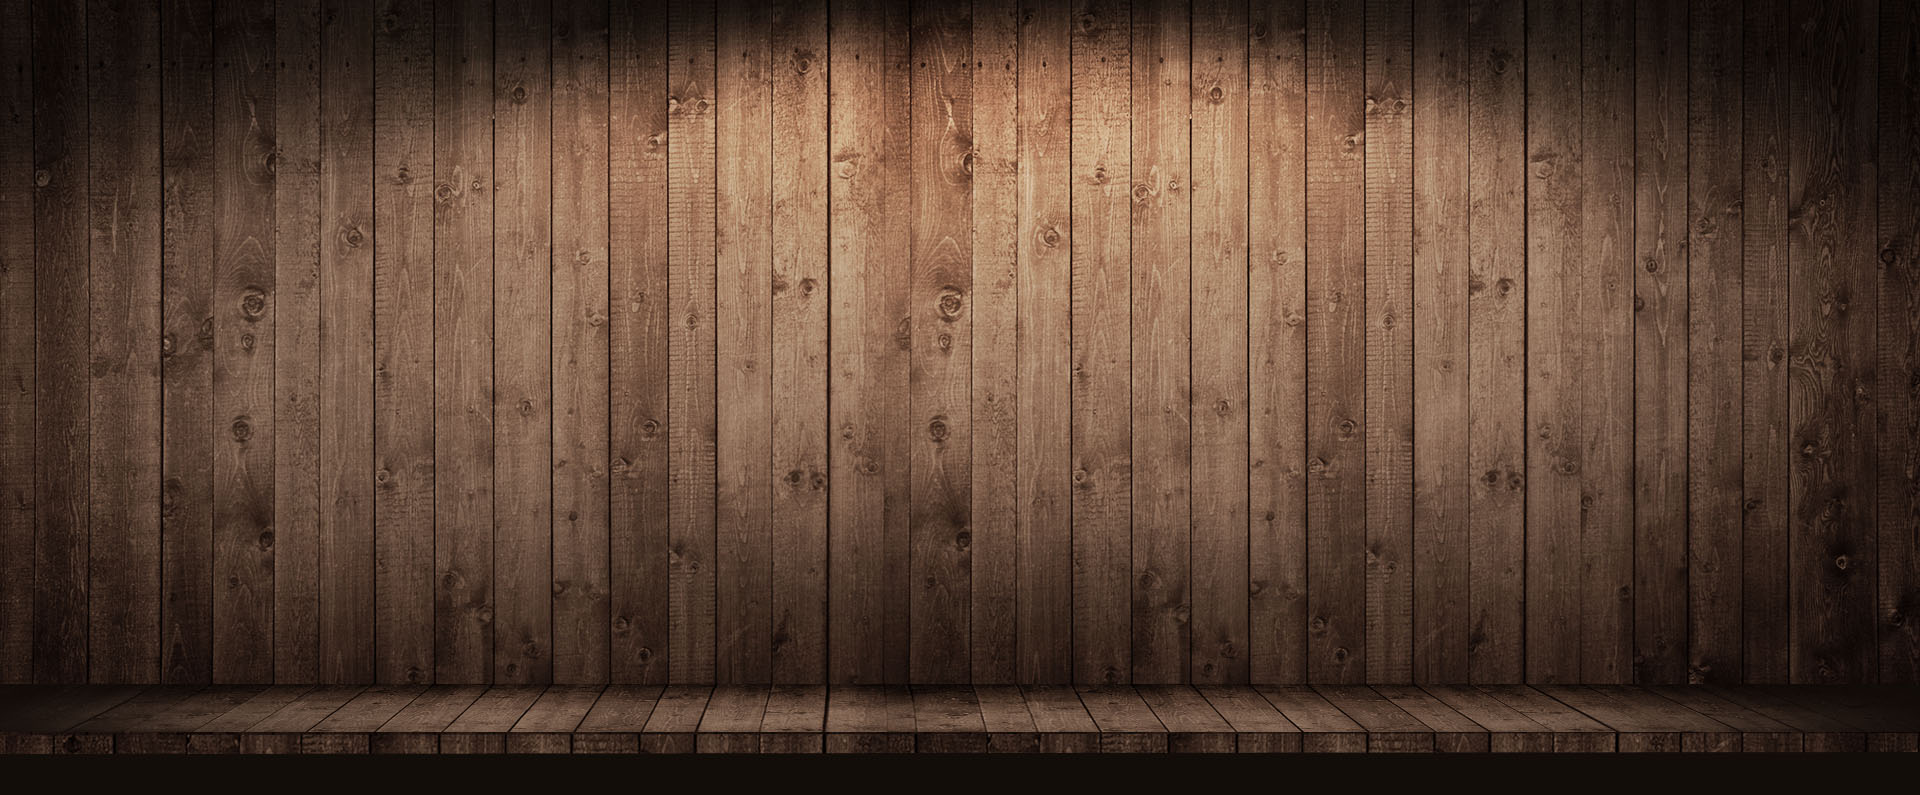
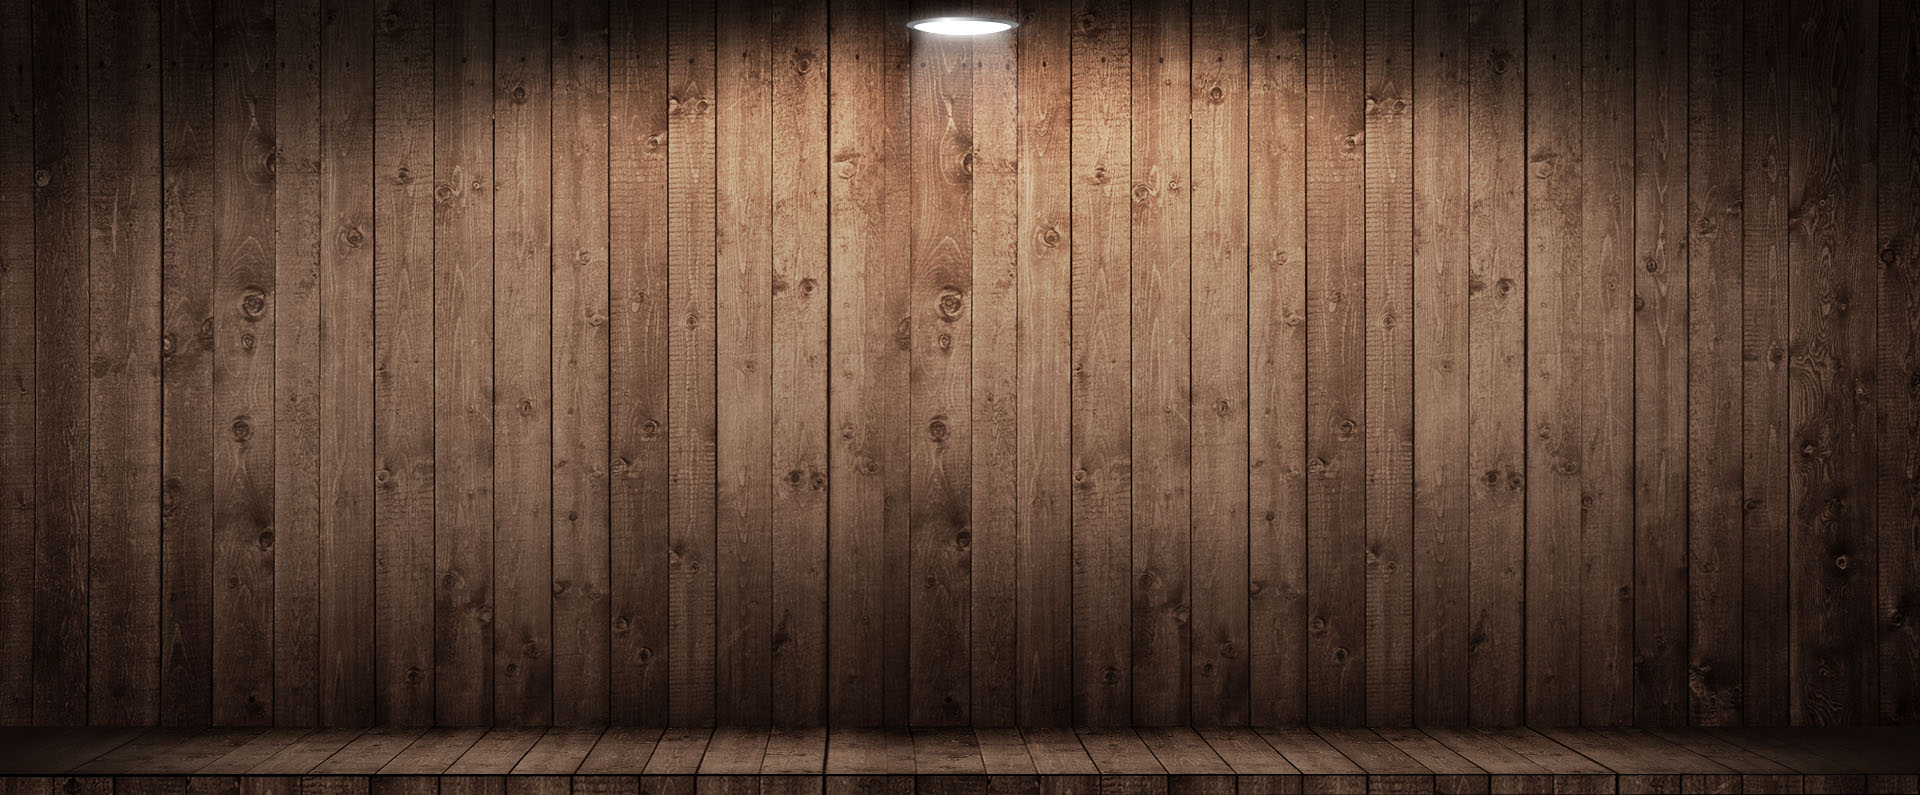
add

Changed region(s): [[0.0, 0.8453, 1.0, 1.0], [0.4688, 0.0, 0.5312, 0.1509]]

diff --git a/styles/style.css b/styles/style.css
@@ -10,12 +10,19 @@ body{
 
 
 header{
+    position: relative;
     width: 1920px;
     height: 795px;
     margin: 0 auto;
-    background-image: url("../images/bg_all.jpg");
+    background-image: url("../images/light_on_wo_box.jpg");
     background-repeat: no-repeat;
-    position: relative;
+}
+
+.boxes{
+    position: absolute;
+    display: block;
+    bottom: 20px;
+    left: 350px;
 }
 
 .upper_menu{
@@ -35,12 +42,14 @@ header{
 }
 
 .upper_menu li{
+    width: 6em;
     font-size: 1.5rem;
     padding: 0.1rem;
+    list-style-type: none;
 }
 
 .upper_menu li:nth-child(4){
-    padding-right: 200px;
+    margin-right: 200px;
 }
 
 .upper_menu a{
@@ -86,6 +95,7 @@ form label{
     font-family: Arial;
     font-weight: bold;
     text-align: center;
+    box-shadow: 0 0 6px 3px #28140d;
 }
 
 .user{
@@ -166,6 +176,7 @@ form label{
 }
 
 main{
+    position: relative;
     width: 1920px;
     height: 1446px;
     overflow: hidden;

diff --git a/JS/js.js b/JS/js.js
@@ -1,15 +1,24 @@
 $(".light_on").click(function() {
-    $("header").css("background-image", "url(\"images/bg_all.jpg\")");
+    $("header").css("background-image", "url(\"images/light_on_wo_box.jpg\")");
 });
 
 $(".light_off").click(function() {
     $("header").css("background-image", "none");
+    $(".boxes").css("display", "none");
 });
 
 $(".box_on").click(function() {
-    $("header").css("background-image", "url(\"images/bg_all.jpg\")");
+    $(".boxes").css("display", "block");
 });
 
 $(".box_off").click(function() {
-    $("header").css("background-image", "none");
+    $(".boxes").css("display", "none");
+});
+
+$(".light_on_under").click(function() {
+    $("main").css("background-image", "url(\"images/underground2.jpg\")");
+});
+
+$(".light_offon_under").click(function() {
+    $("main").css("background-image", "none");
 });

diff --git a/index.html b/index.html
@@ -10,6 +10,7 @@
 <div class="container">
 
     <header>
+        <img class="boxes" src="images/boxes.png" alt="Boxes">
         <form>
             <label>Light</label><button type="button" class="light_on">On</button><button type="button" class="light_off">Off</button><br>
             <label>Boxes</label><button type="button" class="box_on">In</button><button type="button" class="box_off">Out</button>
@@ -45,7 +46,9 @@
 
 
     <main>
-
+        <form>
+            <label>Light</label><button type="button" class="light_on_under">On</button><button type="button" class="light_offon_under">Off</button><br>
+        </form>
     </main>
 
 
